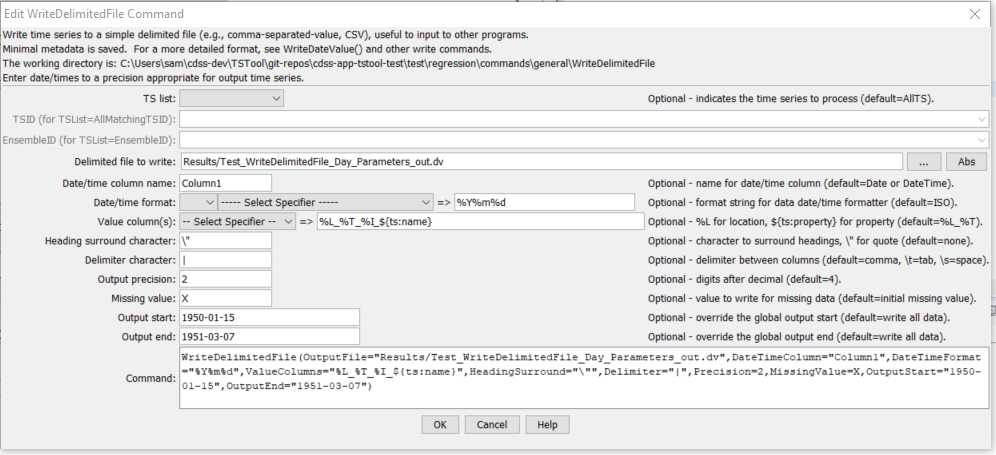
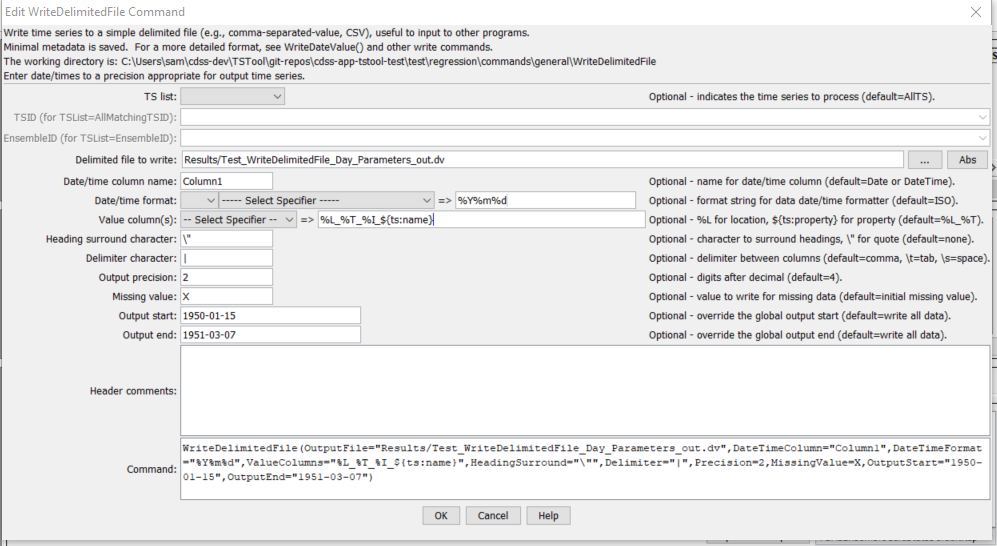
Update WriteDelimitedFile documentation for HeaderComments, issue #49
Also update release notes for recent changes.

Changed region(s): [[0.0, 0.0, 1.0, 1.0], [0.996, 0.0615, 1.0, 0.1231]]

diff --git a/mkdocs-project/docs/appendix-release-notes/release-notes-13.md b/mkdocs-project/docs/appendix-release-notes/release-notes-13.md
@@ -21,6 +21,8 @@ with default being to use relative path.
 The command reference documentation has been updated accordingly.
 * ![change](change.png) [13.03.00] Lowercase command file extension `tstool` is now included in file selectors and is the default
 enforced when saving.  Mixed case `TSTool` extension is still supported.
+* ![change](change.png) [13.03.00] Time series graphs can now be saved as JSON format time series product file - this
+preliminary format is being evaluated to integrate with web applications.
 * ![change](change.png) [13.03.00] Fix a number of issues where table arrays were not cleanly supported.
 * ![change](change.png) [13.03.00] Update the [`AppendTable`](../command-ref/AppendTable/AppendTable.md) command to
 accept property notation in the `ColumnFilters` parameter.
@@ -45,6 +47,8 @@ add `Column` and `Value` parameters to set a single column value, useful for com
 * ![change](change.png) [13.03.00] Update the [`StartLog`](../command-ref/StartLog/StartLog.md) command to have `MaxSize` parameter to limit log file size.
 * ![change](change.png) [13.03.00] Update the [`TableMath`](../command-ref/TableMath/TableMath.md) command input and output parameters to support properties.
 * ![change](change.png) [13.03.00] Update the [`Wait`](../command-ref/Wait/Wait.md) command to allow parameters to be specified as properties.
+* ![change](change.png) [13.03.00] Update the [`WriteDelimitedFile`](../command-ref/WriteDelimitedFile/WriteDelimitedFile.md)
+command to have `HeaderComments` parameter to provide comments
 * ![change](change.png) [13.03.00] Update the [`WriteTableToDelimitedFile`](../command-ref/WriteTableToDelimitedFile/WriteTableToDelimitedFile.md)
 command parameters to provide more flexibility in controlling the file format and support array columns.
 Also enhance performance of the command.

diff --git a/mkdocs-project/docs/command-ref/WriteDelimitedFile/WriteDelimitedFile.md b/mkdocs-project/docs/command-ref/WriteDelimitedFile/WriteDelimitedFile.md
@@ -64,6 +64,7 @@ Command Parameters
 |`MissingValue`|The value to write to the file to indicate a missing value in the time series.  This will override the value initialized when the time series is read or created (typically `-999`, `NaN` or another value).  Specify `Blank` to output a blank.|Time series missing value.|
 |`OutputStart`|The date/time for the start of the output.  Can be specified using processor `${Property}`.|Use the global output period.|
 |`OutputEnd`|The date/time for the end of the output.   Can be specified using processor `${Property}`.|Use the global output period.|
+|`HeaderComments`| Comments to be included at the top of the file.  `#` will be automatically added to the front of each line if not already used.  Use `\n` or `Enter` in the editor to insert new lines.  Double quotes can be used and will be replaced with `\"` in the command parameter in order to not conflict with parameter surrounding quotes.  Can be specified using processor `${Property}`.| No comments are included.|
 
 ## Examples ##
 
